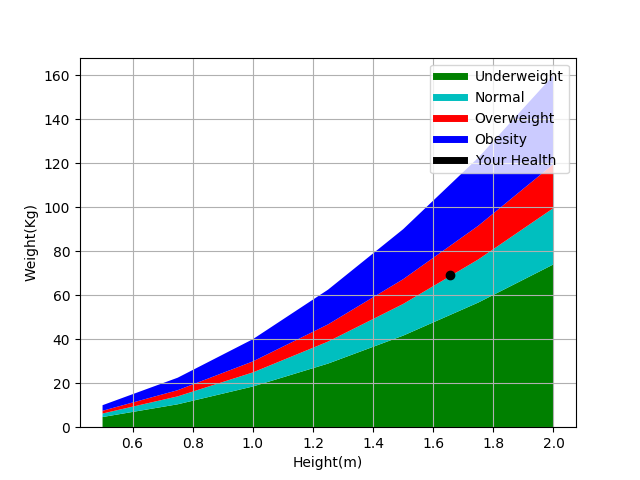
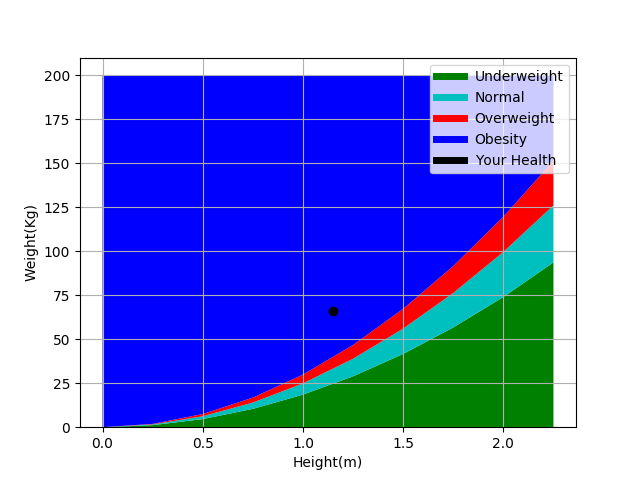
graph done and name and age is taken

diff --git a/kivitut02.py b/kivitut02.py
@@ -6,14 +6,62 @@ from kivy.lang import Builder
 from kivy.uix.screenmanager import ScreenManager, Screen
 from kivy.core.window import Window
 from kivy.properties import ObjectProperty
+from kivy.uix.popup import Popup
+from kivy.uix.label import Label
+
 import Graph as gf
 
 w = 0
 h = 1
 g = ""
 r = 0
+name = ""
+age = ""
     
 class HomeScreen(Screen):
+    def validateName(self, nameInput):
+        global name
+        name = nameInput
+        print(name)
+        if(name == ""):
+            popup = Popup(title='Error',
+                    content=Label(text='Name can\'t be empty' ),
+                    size_hint=(None, None), size=(400, 100))
+            popup.open()
+
+    def validateAge(self, ageInput):
+        global age
+        
+        if(ageInput == ""):
+            popup = Popup(title='Error',
+                    content=Label(text='Age can\'t be empty' ),
+                    size_hint=(None, None), size=(400, 100))
+            popup.open()
+        else:
+            try:
+                age = int(ageInput)
+            except:
+                popup = Popup(title='Error',
+                        content=Label(text='Age can only contain numbers' ),
+                        size_hint=(None, None), size=(400, 100))
+                popup.open()
+
+    def shouldGo(self):
+        print("hello")
+        global age, name
+        if(age == "" or name == ""):
+            HomeScreen.errorMsg()
+            return False
+        else:
+            return True
+
+    def errorMsg():
+        print("hey")
+        popup = Popup(title='Error',
+                content=Label(text='Fill All the values' ),
+                size_hint=(None, None), size=(400, 100))
+        popup.open()
+        
     pass
 
 class GenderScreen(Screen):

diff --git a/Graph.py b/Graph.py
@@ -5,7 +5,7 @@ import matplotlib.pyplot as plt
 
 def graphs(h, w):
     #Creating Coordinates For Graoh
-    allheight=[0.5,0.75,1.0,1.25,1.5,1.75,2.0]
+    allheight=[0, 0.25, 0.5,0.75,1.0,1.25,1.5,1.75,2.0, 2.25]
 
 
 
@@ -26,12 +26,10 @@ def graphs(h, w):
         temp=(29.9)*allheight[i]*allheight[i]
         overweight.append(round(temp,2)-normalweight[i]-underweight[i]) 
     
-
-
     obese=[]
     for i in range(0,len(allheight)):
-        temp=(40)*allheight[i]*allheight[i]
-        obese.append(round(temp,2)-overweight[i]-normalweight[i]-underweight[i])
+        obese.append(200-overweight[i]-normalweight[i]-underweight[i])
+    print(obese)
 
     #Plotting Graph
     plt.plot([],[] ,color='g',label='Underweight',linewidth=5)
